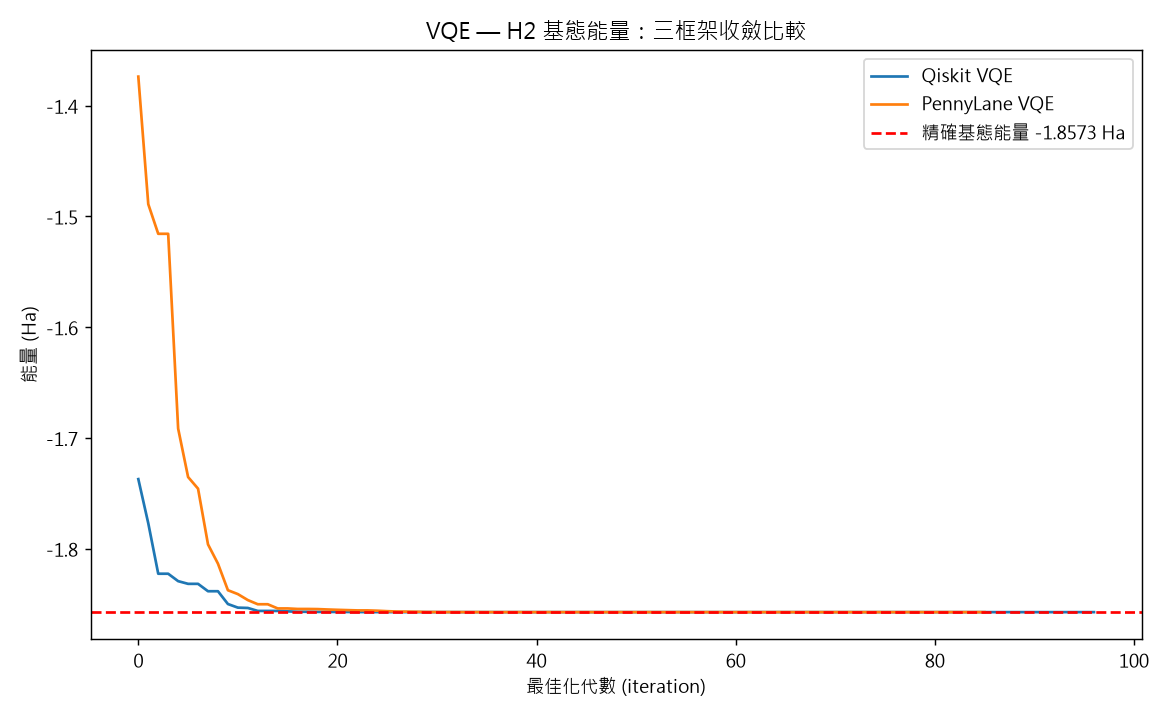
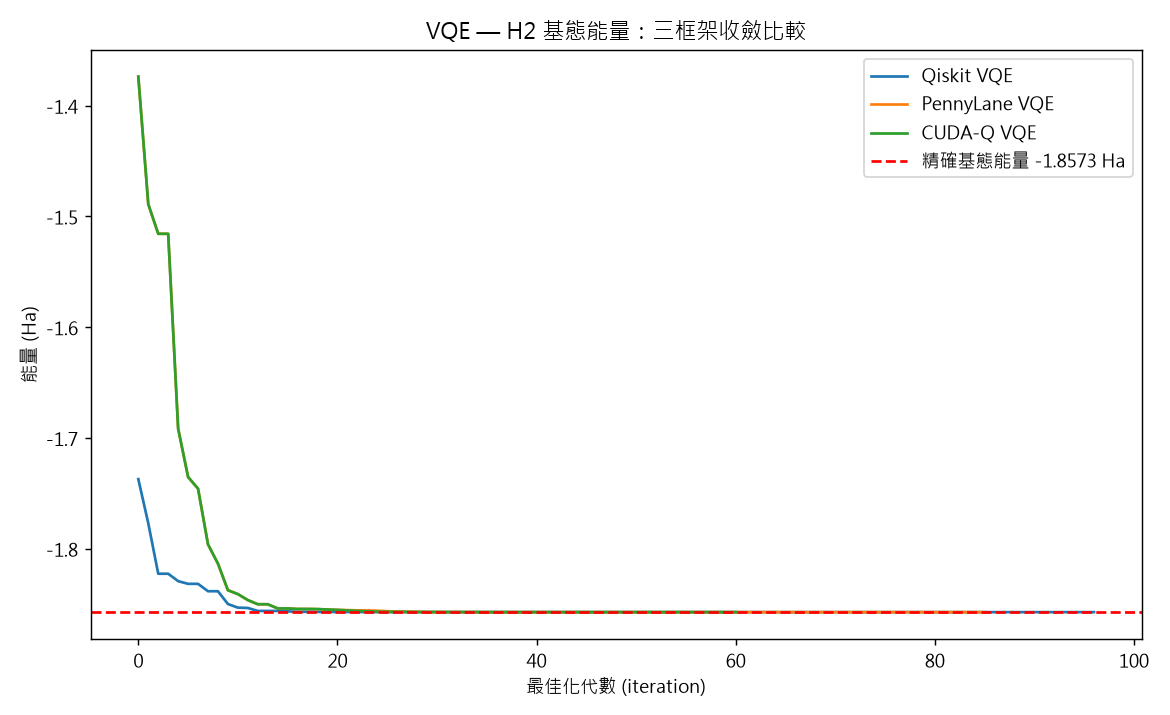
CUDA-Q GPU 版完成：三框架 VQE 全數收斂到 -1.857275 Ha（Qiskit/PennyLane/CUDA-Q-GPU）

diff --git a/quantum_vqe/run_ibm_cloud.py b/quantum_vqe/run_ibm_cloud.py
@@ -141,10 +141,9 @@ def main():
     print(f"誤差（vs 本機）         : {abs(cloud - local):.2e} Ha")
 
     print(f"\n結論：本機與 IBM 真實量子處理器的結果接近但不完全相同。")
-    print(f"差異 {abs(cloud - local):.3f} Ha 正是『硬體雜訊』的影響：")
-    print("模擬器是無雜訊的理想值，真硬體必然有誤差——")
-    print("這正是需要研究真實量子硬體的原因。")
-    print("同一段量子程式可以從本機直接搬到雲端/真硬體執行（跨過指數牆）。")
+    print(f"差異 {abs(cloud - local):.3f} Ha 主要反映真實硬體效應：")
+    print("本機 statevector 是無雜訊理想參考；真硬體會受到 noise、shots、layout 與未做 error mitigation 的影響。")
+    print("這正是需要把同一套量子程式從本機模擬搬到雲端真硬體驗證的原因。")
 
 
 if __name__ == "__main__":

diff --git a/quantum_vqe/run_cudaq.py b/quantum_vqe/run_cudaq.py
@@ -78,7 +78,13 @@ def main():
     print("CUDA-Q VQE — H2 基態能量")
     print("=" * 60)
     print(f"CUDA-Q 版本: {cudaq.__version__}")
-    print(f"執行目標   : {cudaq.get_target()}")
+
+    # 嘗試使用 GPU（nvidia target），不可用時退回預設 CPU
+    try:
+        cudaq.set_target("nvidia")
+        print(f"執行目標   : {cudaq.get_target().name}（GPU 加速）")
+    except Exception:
+        print(f"執行目標   : {cudaq.get_target().name}（GPU 不可用，用 CPU）")
 
     hamiltonian = build_hamiltonian()
     exact = exact_ground_state_energy()

diff --git a/quantum_vqe/wsl_test_gpu.py b/quantum_vqe/wsl_test_gpu.py
@@ -1,0 +1,21 @@
+"""CUDA-Q GPU 煙霧測試：在 RTX 2060 上取樣 Bell 態。"""
+import cudaq
+
+cudaq.set_target("nvidia")
+print("目前 target:", cudaq.get_target().name)
+print("GPU 可用:", cudaq.get_target().num_qpus(), "個 QPU")
+
+
+@cudaq.kernel
+def bell():
+    q = cudaq.qvector(2)
+    h(q[0])
+    x.ctrl(q[0], q[1])
+    mz(q)
+
+
+result = cudaq.sample(bell, shots_count=1000)
+print("Bell 態測量結果:", result)
+print("00 機率:", result.count("00") / 1000)
+print("11 機率:", result.count("11") / 1000)
+print("GPU 煙霧測試成功！")

diff --git a/README.md b/README.md
@@ -40,7 +40,7 @@ The same H₂ molecule problem, the same ansatz, and the same optimizer, impleme
 | 精確值（對角化）/ Exact (diagonalization) | -1.857275 | — | 參考基準 / Reference |
 | Qiskit | -1.857275 | ~1e-13 | Windows 本機可跑 / Runs on Windows |
 | PennyLane | -1.857275 | ~1e-13 | Windows 本機可跑 / Runs on Windows |
-| CUDA-Q | 待執行 / TBD | — | 需 WSL2 / Docker，可吃 GPU / WSL2 or Docker; GPU-capable |
+| CUDA-Q | -1.857275 | ~2e-7 | WSL2 + NVIDIA GPU（RTX 2060）/ WSL2 + NVIDIA GPU |
 
 ![VQE 收斂比較 / VQE convergence comparison](quantum_vqe/outputs/vqe_comparison.png)
 
@@ -48,9 +48,9 @@ The same H₂ molecule problem, the same ansatz, and the same optimizer, impleme
 
 ### 實測：IBM Quantum 真硬體
 
-H2 已在 **IBM Quantum 真實 156-qubit 處理器（ibm_kingston）** 上執行。
-本機理想值 **-1.047914 Ha**，真硬體 **-1.088185 Ha**，
-差異 **~0.04 Ha** 即為量子硬體雜訊的具體呈現（模擬器是無雜訊的理想值）。
+H2 的同一個 ansatz / observable 已在 **IBM Quantum 真實 156-qubit 處理器（ibm_kingston）** 上執行 Estimator job。
+同一組參數在本機理想 statevector 的 expectation value 為 **-1.047914 Ha**，真硬體回傳 **-1.088185 Ha**。
+差異 **~0.04 Ha** 主要呈現真實量子硬體的 noise、shot statistics、transpilation/layout 與未做 error mitigation 的實機效應。
 詳見 / See [docs/IBM_CLOUD_AUDIT.md](docs/IBM_CLOUD_AUDIT.md)。
 
 ## 使用的框架 / Frameworks

diff --git a/quantum_vqe/README.md b/quantum_vqe/README.md
@@ -50,19 +50,25 @@ python plot_comparison.py   # 畫比較圖
 | 精確值 | -1.857275 | — |
 | Qiskit | -1.857275 | ~1e-13 |
 | PennyLane | -1.857275 | ~1e-13 |
-| CUDA-Q | -1.857275 | 待執行 |
+| CUDA-Q | -1.857275 | ~2e-7（GPU）|
 
-## CUDA-Q 版（需 WSL2 / Docker）
+## CUDA-Q 版（WSL2 + NVIDIA GPU）
 
-CUDA-Q 不支援 Windows 原生執行。請先照根目錄 `docs/CUDA-Q_SETUP.md` 安裝，
-再到 WSL2 / Docker 內執行：
+CUDA-Q 不支援 Windows 原生執行，需在 WSL2 / Docker 內執行。
+本專案已在 **WSL2 + NVIDIA RTX 2060** 上驗證（`nvidia` GPU target），收斂到 -1.857275 Ha。
+
+執行（WSL 內，需有 python 3.12 的 `cudaq` 環境）：
 
 ```bash
-python quantum_vqe/run_cudaq.py
+cd /mnt/d/Elroy/Quant_DEV/quantum_vqe
+# 使用 cudaq 環境的 python（例如 conda 環境 cudaq）
+python run_cudaq.py
 ```
 
 CUDA-Q 的好處是可吃 NVIDIA GPU 加速；本範例的程式結構與 Qiskit/PennyLane 完全相同，
 只差在 `cudaq.observe` 這個「執行引擎」呼叫。
+
+> 若在 Windows 上執行，會提示 CUDA-Q 未安裝（需 WSL2/Docker），並指引到 `docs/CUDA-Q_SETUP.md`。
 
 ## 規模實驗：找到指數牆
 

diff --git a/docs/IBM_CLOUD_AUDIT.md b/docs/IBM_CLOUD_AUDIT.md
@@ -44,8 +44,8 @@
 |------|------|
 | IBM 雲端能量（真硬體）| **-1.088185 Ha** |
 | 本機理想值（無雜訊）| -1.047914 Ha |
-| 差異（= 硬體雜訊）| 4.03e-02 Ha |
-| 解讀 | 模擬器是無雜訊理想值；真硬體必然有誤差，此差異即為量子硬體雜訊的具體呈現 |
+| 差異（vs 本機理想 expectation）| 4.03e-02 Ha |
+| 解讀 | 這個差異主要反映真實量子硬體的 noise、shot statistics、transpilation/layout 與未做 error mitigation 的實機效應；本機 statevector 是無雜訊理想參考值。 |
 
 ## 5. 技術重點（從錯誤中學到的）
 
